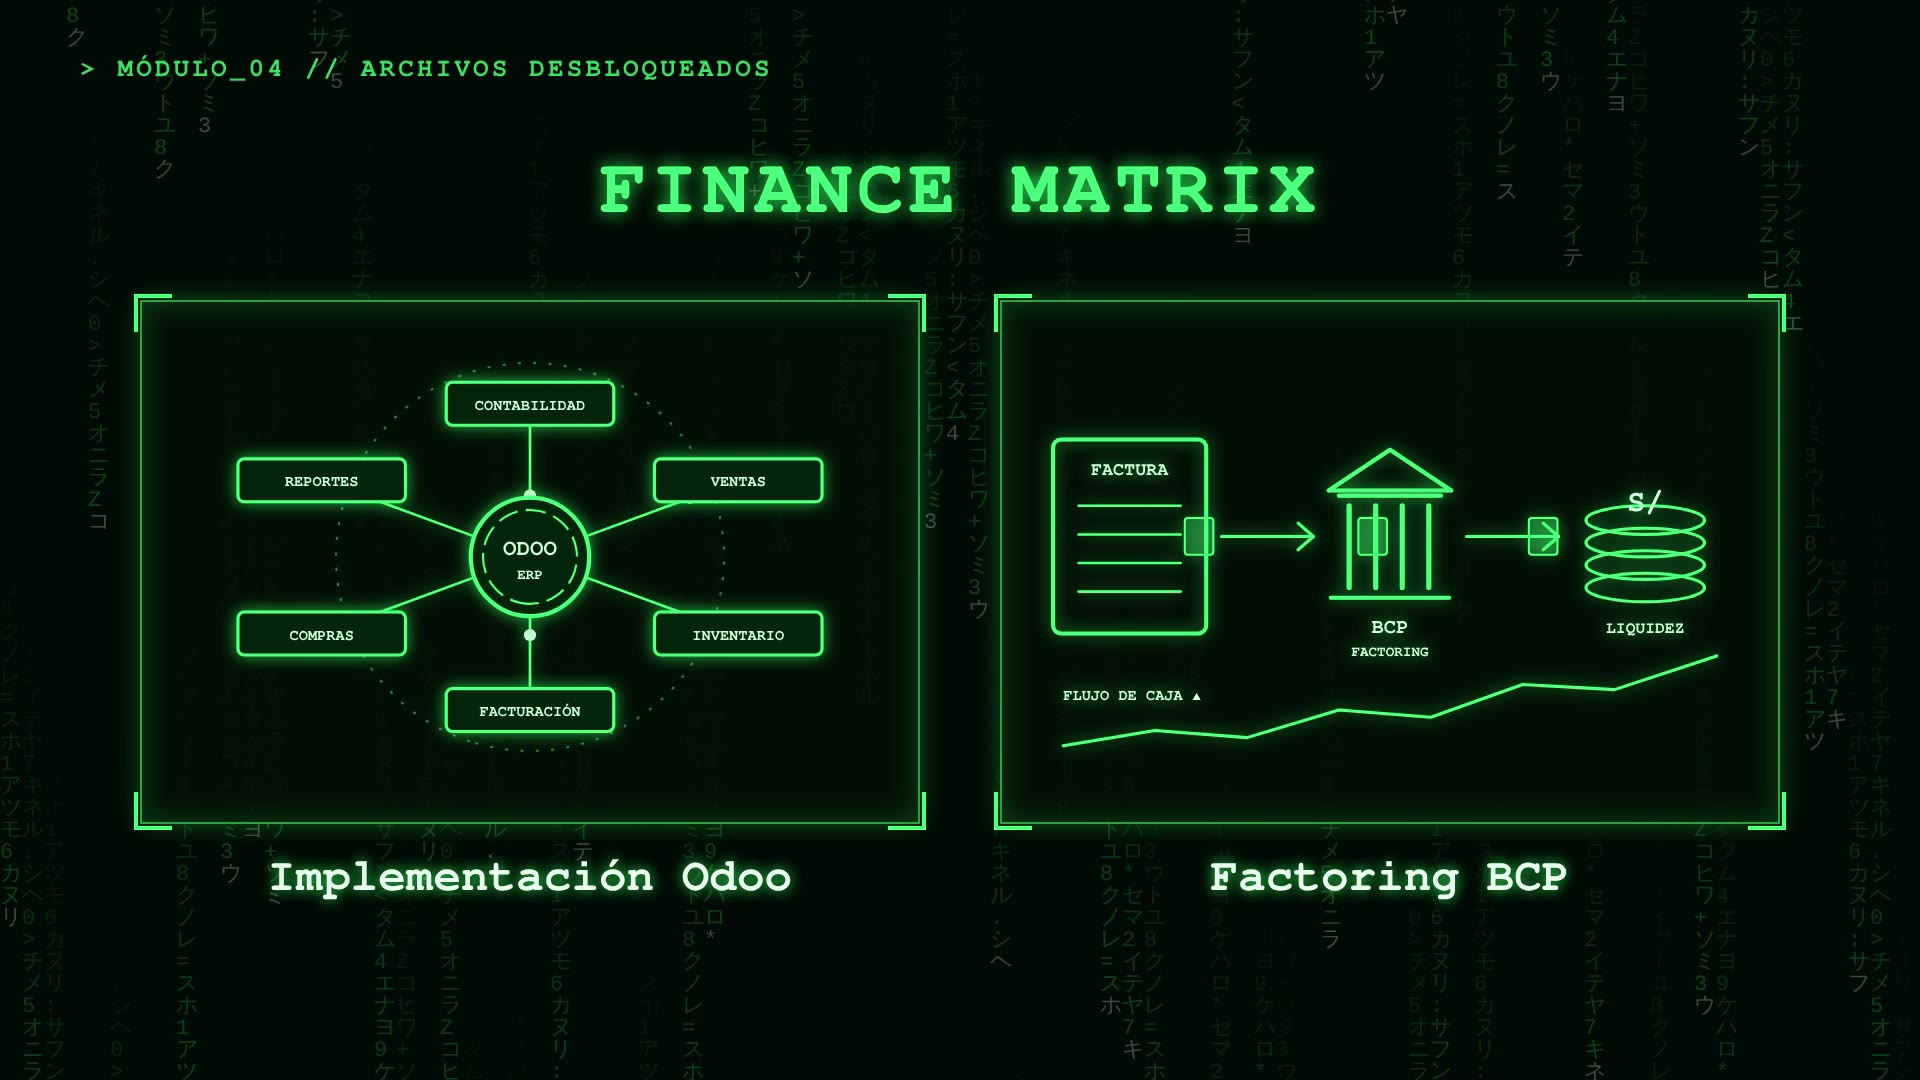
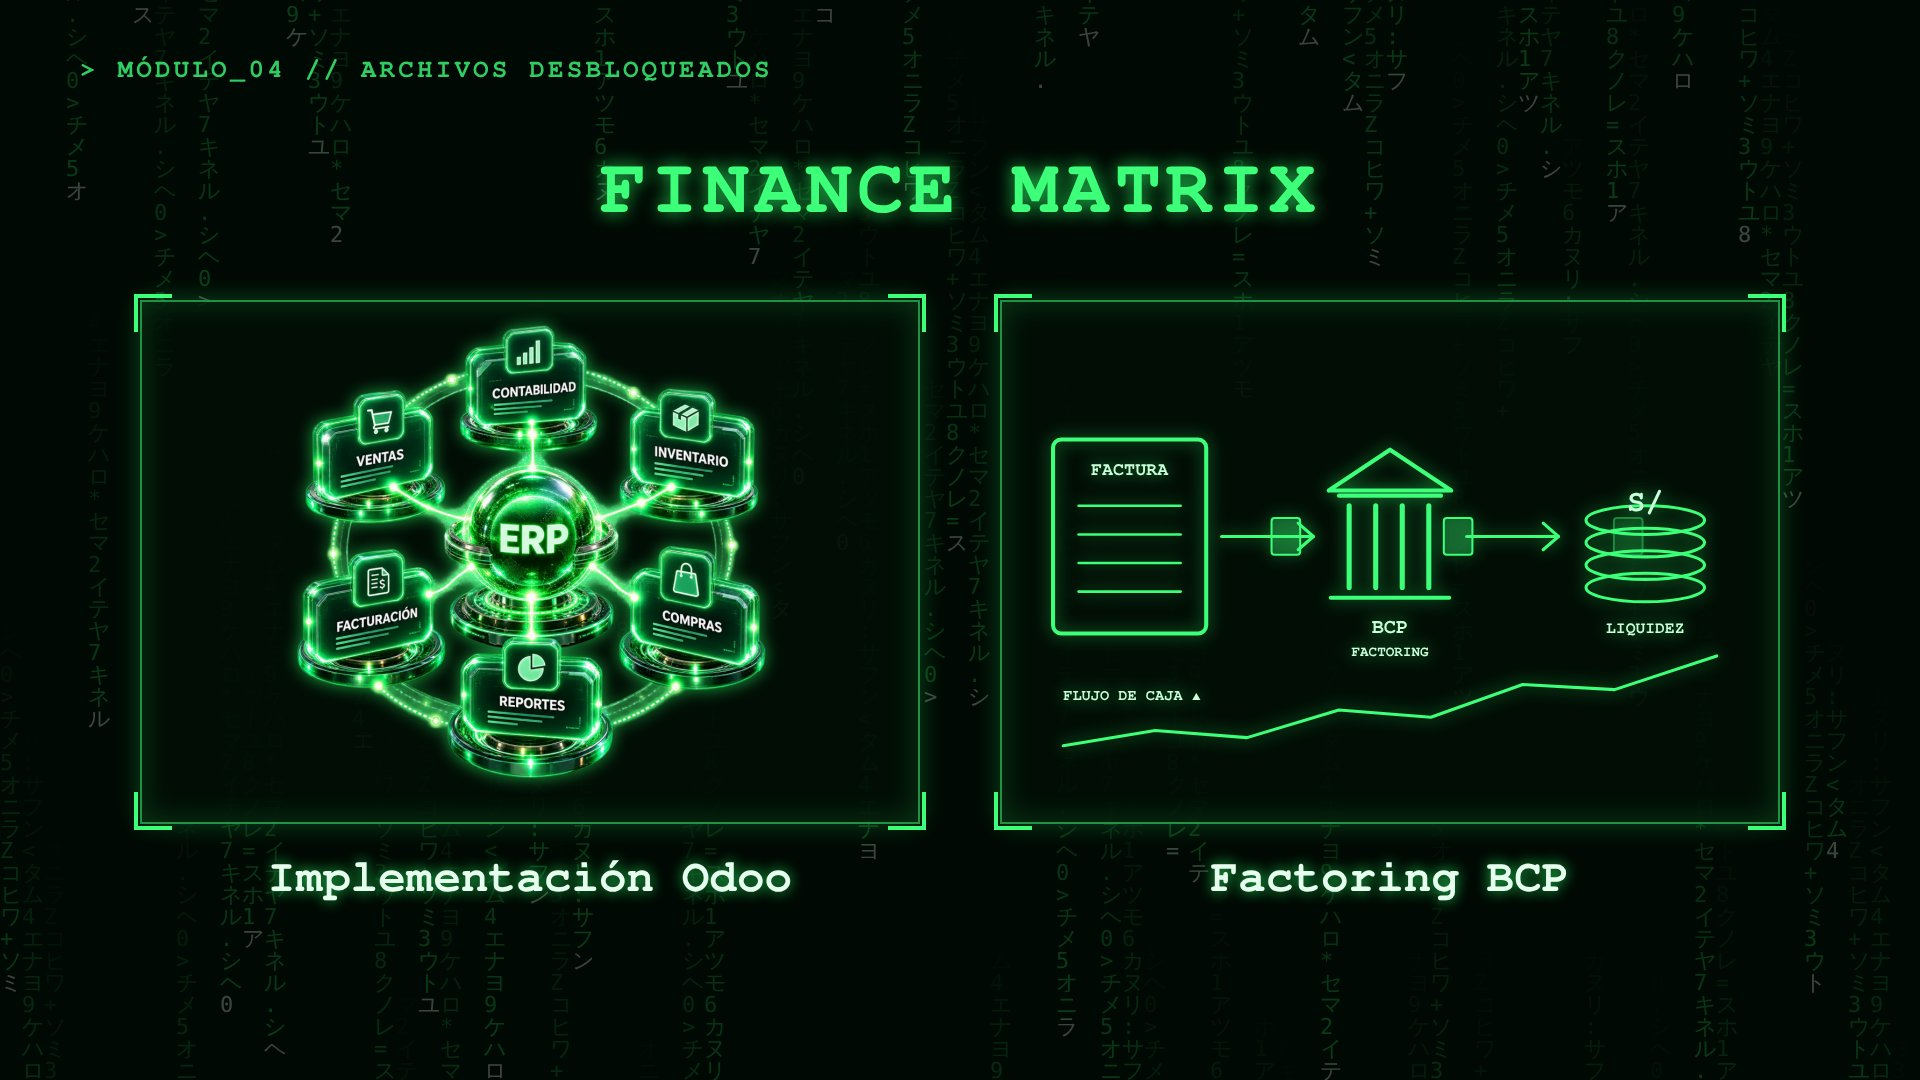
Matrix PPT4: imagen para Implementación Odoo
Claude-Session: https://claude.ai/code/session_01TNESLuQNUwZZ73yDMFRmWn

diff --git a/videos/matrix-2026/compositions/m4-ppt.html b/videos/matrix-2026/compositions/m4-ppt.html
@@ -32,7 +32,7 @@
   <div id="mod" class="abs"></div>
   <div id="h" class="abs"></div>
   <div id="c1" class="abs card">
-    <div class="marco"><svg class="ico" viewBox="0 0 760 440"><g data-rot="12 380 215" opacity=".45"><circle cx="380" cy="215" r="190" stroke="#3dff7a" stroke-width="2" fill="none" stroke-dasharray="3 12"/></g><path stroke="#3dff7a" fill="none" stroke-linecap="round" stroke-linejoin="round" pathLength="1" class="tr" stroke-width="2.5" d="M380 215 L380 65"/><circle class="pul" data-a="380,215,380,65" data-on="4.4" r="6" fill="#b9ffd0" opacity="0"/><rect x="298" y="44" width="164" height="42" rx="6" fill="#03200d"/><rect stroke="#3dff7a" fill="none" stroke-linecap="round" stroke-linejoin="round" pathLength="1" class="tr" stroke-width="3" x="298" y="44" width="164" height="42" rx="6"/><text font-family="Maquina, monospace" fill="#c8ffd8" font-size="15" x="380" y="71" text-anchor="middle" class="fx" data-t="1.8">CONTABILIDAD</text><path stroke="#3dff7a" fill="none" stroke-linecap="round" stroke-linejoin="round" pathLength="1" class="tr" stroke-width="2.5" d="M380 215 L584 140"/><circle class="pul" data-a="380,215,584,140" data-on="4.4" r="6" fill="#b9ffd0" opacity="0"/><rect x="502" y="119" width="164" height="42" rx="6" fill="#03200d"/><rect stroke="#3dff7a" fill="none" stroke-linecap="round" stroke-linejoin="round" pathLength="1" class="tr" stroke-width="3" x="502" y="119" width="164" height="42" rx="6"/><text font-family="Maquina, monospace" fill="#c8ffd8" font-size="15" x="584" y="146" text-anchor="middle" class="fx" data-t="1.95">VENTAS</text><path stroke="#3dff7a" fill="none" stroke-linecap="round" stroke-linejoin="round" pathLength="1" class="tr" stroke-width="2.5" d="M380 215 L584 290"/><circle class="pul" data-a="380,215,584,290" data-on="4.4" r="6" fill="#b9ffd0" opacity="0"/><rect x="502" y="269" width="164" height="42" rx="6" fill="#03200d"/><rect stroke="#3dff7a" fill="none" stroke-linecap="round" stroke-linejoin="round" pathLength="1" class="tr" stroke-width="3" x="502" y="269" width="164" height="42" rx="6"/><text font-family="Maquina, monospace" fill="#c8ffd8" font-size="15" x="584" y="296" text-anchor="middle" class="fx" data-t="2.1">INVENTARIO</text><path stroke="#3dff7a" fill="none" stroke-linecap="round" stroke-linejoin="round" pathLength="1" class="tr" stroke-width="2.5" d="M380 215 L380 365"/><circle class="pul" data-a="380,215,380,365" data-on="4.4" r="6" fill="#b9ffd0" opacity="0"/><rect x="298" y="344" width="164" height="42" rx="6" fill="#03200d"/><rect stroke="#3dff7a" fill="none" stroke-linecap="round" stroke-linejoin="round" pathLength="1" class="tr" stroke-width="3" x="298" y="344" width="164" height="42" rx="6"/><text font-family="Maquina, monospace" fill="#c8ffd8" font-size="15" x="380" y="371" text-anchor="middle" class="fx" data-t="2.25">FACTURACIÓN</text><path stroke="#3dff7a" fill="none" stroke-linecap="round" stroke-linejoin="round" pathLength="1" class="tr" stroke-width="2.5" d="M380 215 L176 290"/><circle class="pul" data-a="380,215,176,290" data-on="4.4" r="6" fill="#b9ffd0" opacity="0"/><rect x="94" y="269" width="164" height="42" rx="6" fill="#03200d"/><rect stroke="#3dff7a" fill="none" stroke-linecap="round" stroke-linejoin="round" pathLength="1" class="tr" stroke-width="3" x="94" y="269" width="164" height="42" rx="6"/><text font-family="Maquina, monospace" fill="#c8ffd8" font-size="15" x="176" y="296" text-anchor="middle" class="fx" data-t="2.4">COMPRAS</text><path stroke="#3dff7a" fill="none" stroke-linecap="round" stroke-linejoin="round" pathLength="1" class="tr" stroke-width="2.5" d="M380 215 L176 140"/><circle class="pul" data-a="380,215,176,140" data-on="4.4" r="6" fill="#b9ffd0" opacity="0"/><rect x="94" y="119" width="164" height="42" rx="6" fill="#03200d"/><rect stroke="#3dff7a" fill="none" stroke-linecap="round" stroke-linejoin="round" pathLength="1" class="tr" stroke-width="3" x="94" y="119" width="164" height="42" rx="6"/><text font-family="Maquina, monospace" fill="#c8ffd8" font-size="15" x="176" y="146" text-anchor="middle" class="fx" data-t="2.55">REPORTES</text><circle cx="380" cy="215" r="58" fill="#03200d" stroke="#3dff7a" stroke-width="4"/><g data-rot="-30 380 215"><circle cx="380" cy="215" r="46" stroke="#3dff7a" stroke-width="2" fill="none" stroke-dasharray="20 8"/></g><text font-family="Maquina, monospace" fill="#c8ffd8" font-size="22" x="380" y="213" text-anchor="middle" class="fx" data-t="2.0">ODOO</text><text font-family="Maquina, monospace" fill="#c8ffd8" font-size="14" x="380" y="237" text-anchor="middle" class="fx" data-t="2.2">ERP</text></svg><div class="tapa abs"></div><div class="scan abs"></div>
+    <div class="marco"><img class="ico" src="../assets/iconos/odoo.png" style="object-fit:contain;padding:18px;box-sizing:border-box" alt="Implementación Odoo"/><div class="tapa abs"></div><div class="scan abs"></div>
       <i class="esq a"></i><i class="esq b"></i><i class="esq c"></i><i class="esq d"></i></div>
     <div class="tit" id="t1"></div>
   </div>
@@ -124,6 +124,7 @@
     tl.fromTo(c + " .tr", { strokeDashoffset: 1 }, { strokeDashoffset: 0, duration: 0.9, stagger: 0.12, ease: "power1.inOut", immediateRender: false }, d + 0.5);
   });
   window.__timelines = window.__timelines || {};
+  tl.fromTo("#c1 .ico", { y: 0 }, { y: -10, duration: 1.6, ease: "sine.inOut", repeat: 5, yoyo: true, immediateRender: false }, 2.0);
   window.__timelines["m4-ppt"] = tl;
   pintar(); tl.seek(0);
   // modo presentación: tras la entrada, la lluvia sigue en bucle
